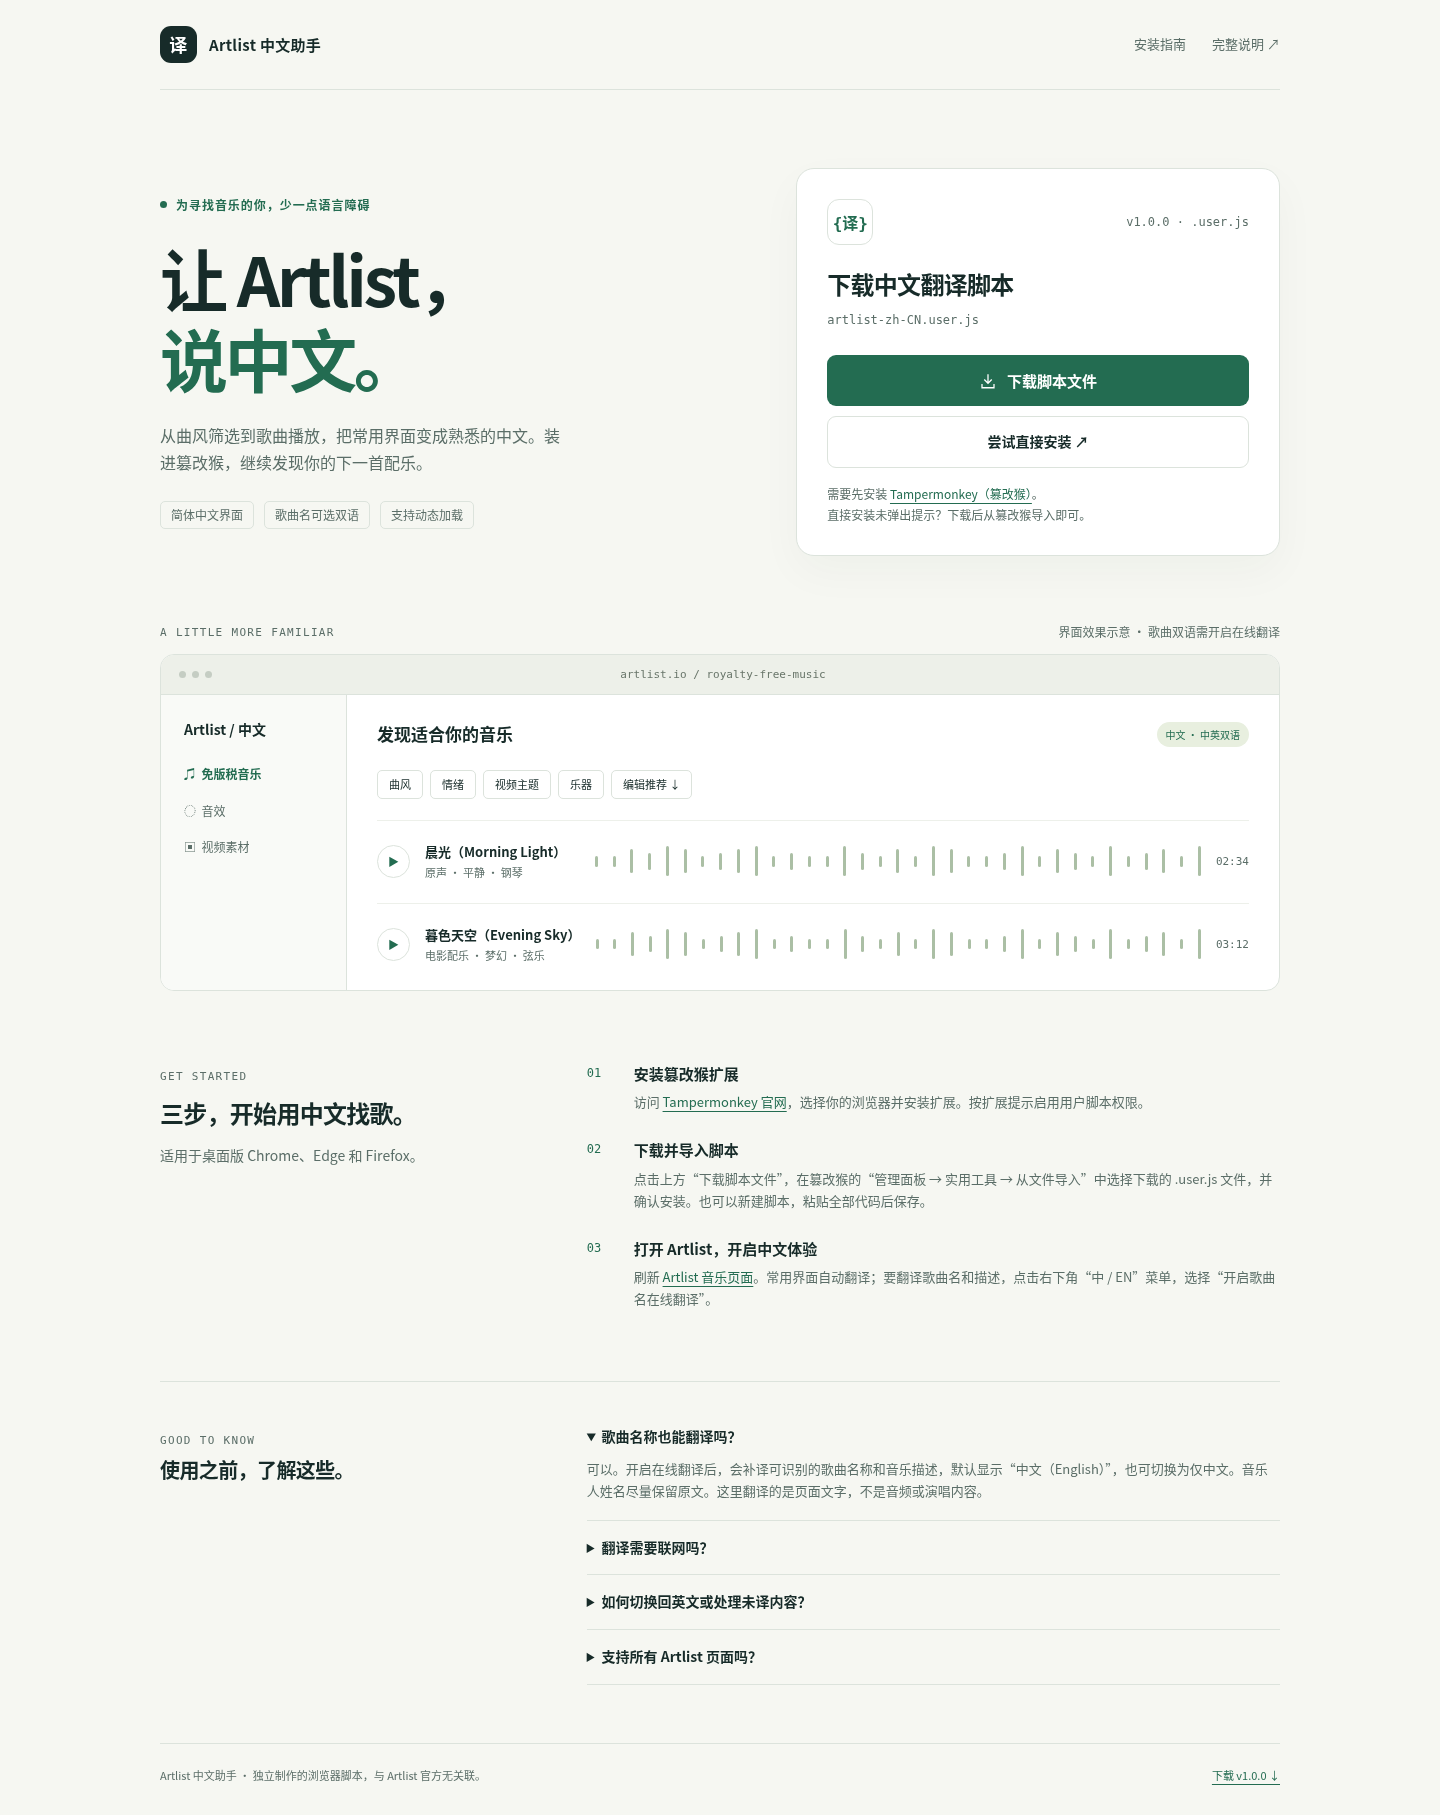
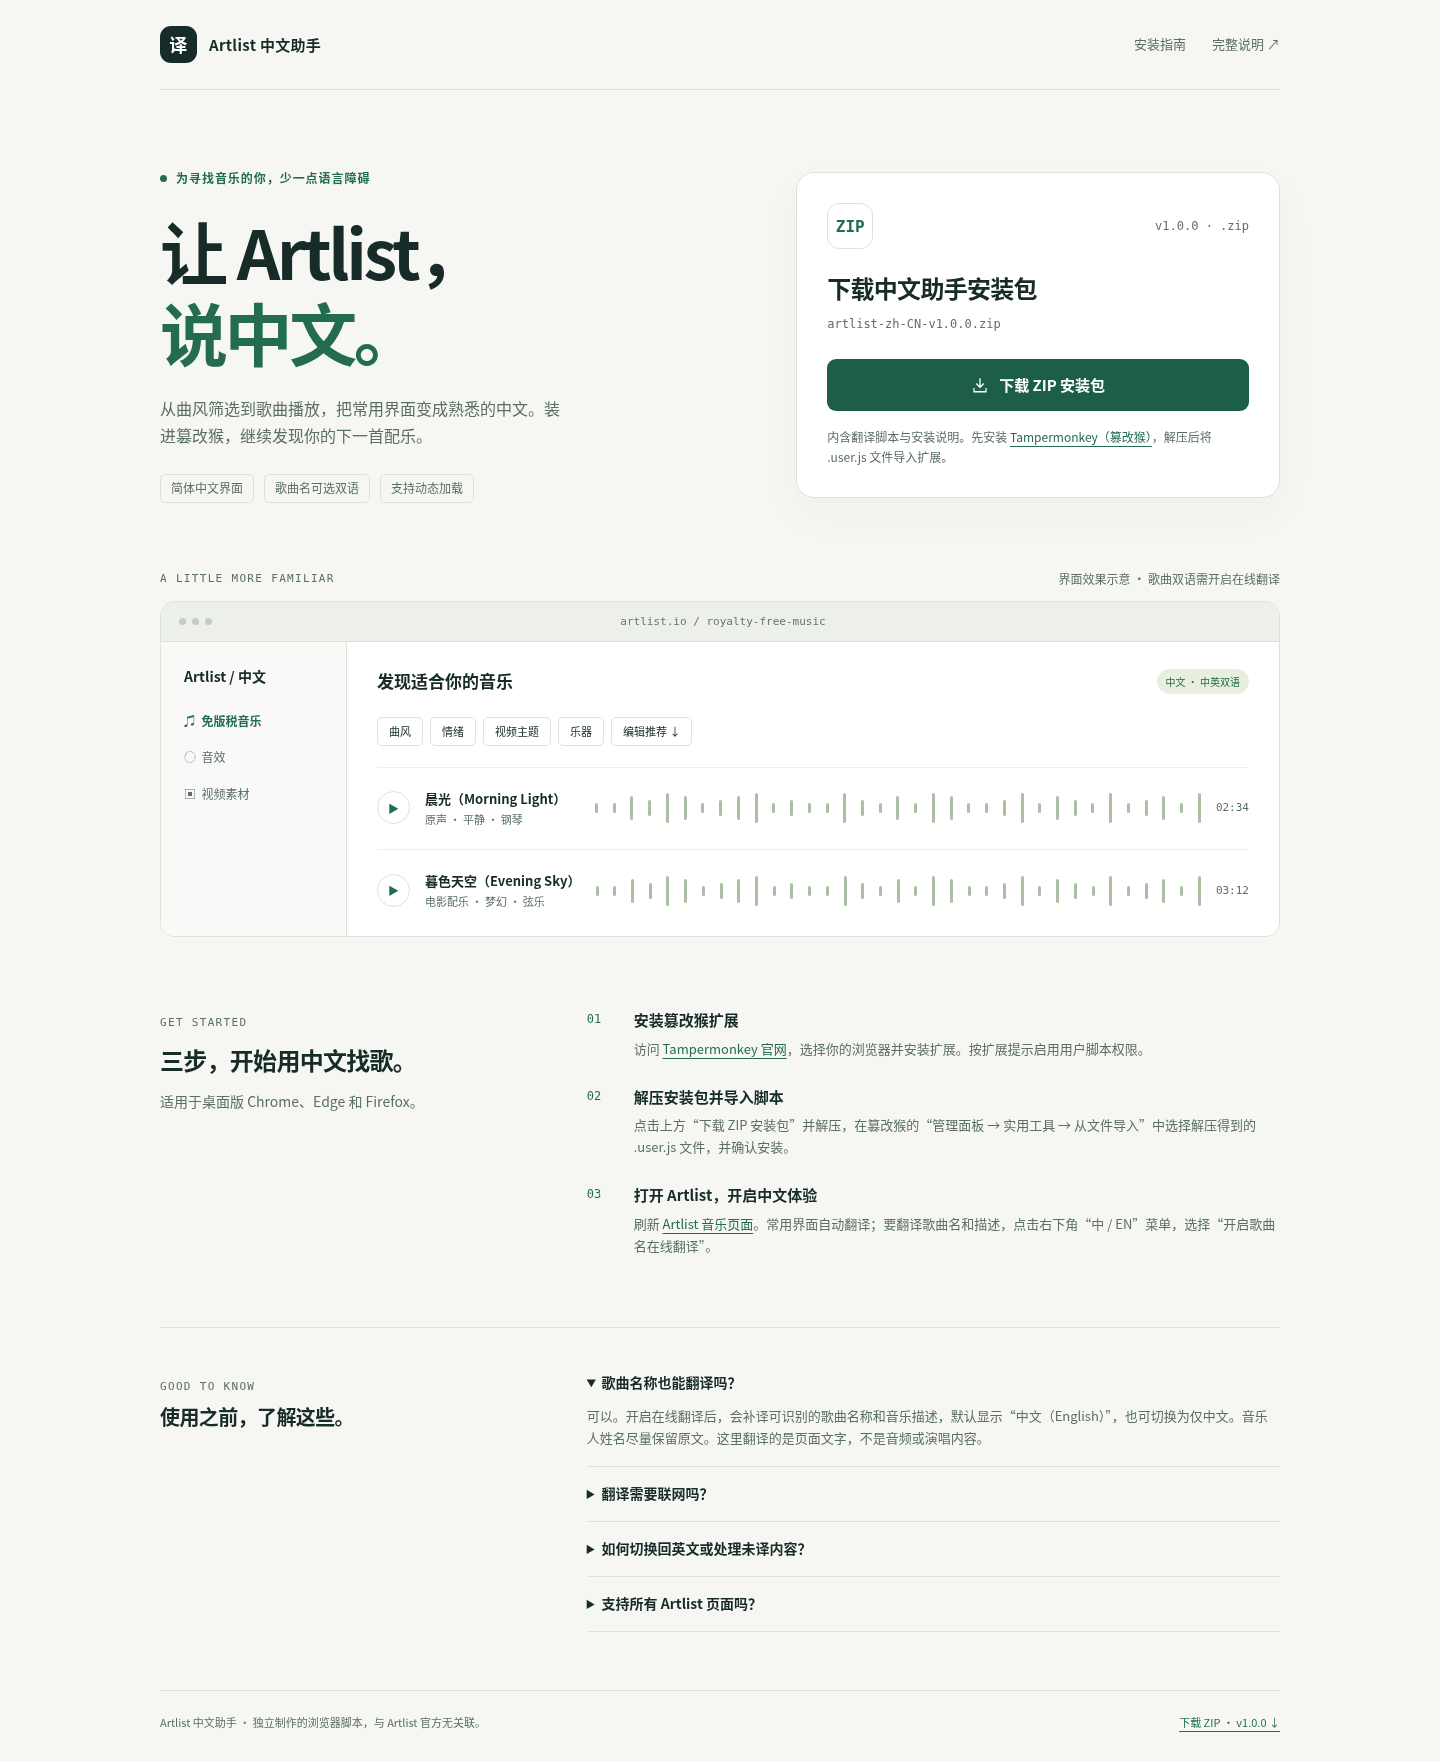
Offer ZIP installer as the only download option

diff --git a/index.html b/index.html
@@ -36,12 +36,11 @@
           <div class="tags" aria-label="脚本功能"><span class="tag">简体中文界面</span><span class="tag">歌曲名可选双语</span><span class="tag">支持动态加载</span></div>
         </div>
         <div class="download-card" id="download">
-          <div class="card-top"><span class="file-icon" aria-hidden="true">{译}</span><span class="version">v1.0.0 · .user.js</span></div>
-          <h2>下载中文翻译脚本</h2>
-          <p class="file-name">artlist-zh-CN.user.js</p>
-          <a class="button primary" href="./artlist-zh-CN.user.js" download="artlist-zh-CN.user.js"><svg width="18" height="18" viewBox="0 0 24 24" fill="none" stroke="currentColor" stroke-width="1.7" aria-hidden="true"><path d="M12 3v12m-5-5 5 5 5-5M4 16v5h16v-5"/></svg>下载脚本文件</a>
-          <a class="button secondary" href="./artlist-zh-CN.user.js" target="_blank" rel="noopener">尝试直接安装 ↗</a>
-          <p class="download-note">需要先安装 <a href="https://www.tampermonkey.net/" target="_blank" rel="noopener noreferrer">Tampermonkey（篡改猴）</a>。<br>直接安装未弹出提示？下载后从篡改猴导入即可。</p>
+          <div class="card-top"><span class="file-icon" aria-hidden="true">ZIP</span><span class="version">v1.0.0 · .zip</span></div>
+          <h2>下载中文助手安装包</h2>
+          <p class="file-name">artlist-zh-CN-v1.0.0.zip</p>
+          <a class="button primary" href="./downloads/artlist-zh-CN-v1.0.0.zip" download="artlist-zh-CN-v1.0.0.zip"><svg width="18" height="18" viewBox="0 0 24 24" fill="none" stroke="currentColor" stroke-width="1.7" aria-hidden="true"><path d="M12 3v12m-5-5 5 5 5-5M4 16v5h16v-5"/></svg>下载 ZIP 安装包</a>
+          <p class="download-note">内含翻译脚本与安装说明。先安装 <a href="https://www.tampermonkey.net/" target="_blank" rel="noopener noreferrer">Tampermonkey（篡改猴）</a>，解压后将 .user.js 文件导入扩展。</p>
         </div>
       </section>
 
@@ -65,7 +64,7 @@
         <div><span class="section-label">GET STARTED</span><h2 id="install-title">三步，开始用中文找歌。</h2><p class="guide-intro">适用于桌面版 Chrome、Edge 和 Firefox。</p></div>
         <ol class="steps">
           <li><div><strong>安装篡改猴扩展</strong><p>访问 <a href="https://www.tampermonkey.net/" target="_blank" rel="noopener noreferrer">Tampermonkey 官网</a>，选择你的浏览器并安装扩展。按扩展提示启用用户脚本权限。</p></div></li>
-          <li><div><strong>下载并导入脚本</strong><p>点击上方“下载脚本文件”，在篡改猴的“管理面板 → 实用工具 → 从文件导入”中选择下载的 .user.js 文件，并确认安装。也可以新建脚本，粘贴全部代码后保存。</p></div></li>
+          <li><div><strong>解压安装包并导入脚本</strong><p>点击上方“下载 ZIP 安装包”并解压，在篡改猴的“管理面板 → 实用工具 → 从文件导入”中选择解压得到的 .user.js 文件，并确认安装。</p></div></li>
           <li><div><strong>打开 Artlist，开启中文体验</strong><p>刷新 <a href="https://artlist.io/royalty-free-music" target="_blank" rel="noopener noreferrer">Artlist 音乐页面</a>。常用界面自动翻译；要翻译歌曲名和描述，点击右下角“中 / EN”菜单，选择“开启歌曲名在线翻译”。</p></div></li>
         </ol>
       </section>
@@ -75,12 +74,12 @@
         <div>
           <details open><summary>歌曲名称也能翻译吗？</summary><p>可以。开启在线翻译后，会补译可识别的歌曲名称和音乐描述，默认显示“中文（English）”，也可切换为仅中文。音乐人姓名尽量保留原文。这里翻译的是页面文字，不是音频或演唱内容。</p></details>
           <details><summary>翻译需要联网吗？</summary><p>常用界面使用内置词库，无需连接翻译服务。歌曲名和描述的在线补译会将符合条件的页面文字发送至 Google，需要能访问 <code>translate.googleapis.com</code>。在线翻译默认关闭，接口连接失败时本地词库仍可使用。</p></details>
-          <details><summary>如何切换回英文或处理未译内容？</summary><p>点击页面右下角的“中 / EN”菜单，选择“显示英文原文”。网络恢复后，可点击“重新扫描 / 重试未译内容”。下载按钮如果打开了代码页面，也可以将完整代码复制到篡改猴的新建脚本中保存。</p></details>
+          <details><summary>如何切换回英文或处理未译内容？</summary><p>点击页面右下角的“中 / EN”菜单，选择“显示英文原文”。网络恢复后，可点击“重新扫描 / 重试未译内容”。</p></details>
           <details><summary>支持所有 Artlist 页面吗？</summary><p>脚本面向常用界面和音乐页面，已经通过本地模拟浏览器测试，尚未在真实登录后的 Artlist 页面完整验证。网站结构变化可能影响识别，无法保证每处文字都覆盖。授权、价格和条款请以 Artlist 原文为准。<a href="./README.md">查看完整说明</a>。</p></details>
         </div>
       </section>
     </main>
-    <footer><p>Artlist 中文助手 · 独立制作的浏览器脚本，与 Artlist 官方无关联。</p><a href="./artlist-zh-CN.user.js" download="artlist-zh-CN.user.js">下载 v1.0.0 ↓</a></footer>
+    <footer><p>Artlist 中文助手 · 独立制作的浏览器脚本，与 Artlist 官方无关联。</p><a href="./downloads/artlist-zh-CN-v1.0.0.zip" download="artlist-zh-CN-v1.0.0.zip">下载 ZIP · v1.0.0 ↓</a></footer>
   </div>
 </body>
 </html>

diff --git a/README.md b/README.md
@@ -1,18 +1,14 @@
 # Artlist 简体中文翻译脚本
 
-主文件：`artlist-zh-CN.user.js`，用于桌面浏览器的 Tampermonkey（篡改猴）。
+用于桌面浏览器的 Tampermonkey（篡改猴），支持常用界面翻译及可选歌曲名双语显示。
 
 ## 下载与安装
 
-### [⬇ 点击下载 Artlist 中文翻译脚本 v1.0.0](https://github.com/sudazz777/WangZhanFanYi/raw/refs/heads/main/artlist-zh-CN.user.js)
+### [⬇ 下载 Artlist 中文助手 ZIP 安装包 v1.0.0](https://github.com/sudazz777/WangZhanFanYi/raw/refs/heads/main/downloads/artlist-zh-CN-v1.0.0.zip)
 
-| 下载内容 | 入口 |
-| --- | --- |
-| 篡改猴脚本（推荐） | [下载 artlist-zh-CN.user.js](https://github.com/sudazz777/WangZhanFanYi/raw/refs/heads/main/artlist-zh-CN.user.js) |
-| 完整项目，包含 HTML 下载页面 | [下载项目 ZIP](https://github.com/sudazz777/WangZhanFanYi/archive/refs/heads/main.zip) |
-| 脚本源码 | [查看代码](./artlist-zh-CN.user.js) |
+压缩包内包含翻译脚本 `artlist-zh-CN.user.js` 和 `安装说明.txt`。
 
-**安装：** 先安装 [Tampermonkey（篡改猴）](https://www.tampermonkey.net/)，再点击上方脚本下载链接。如未弹出安装窗口，请保存文件，在篡改猴 **管理面板 → 实用工具 → 从文件导入** 中选择该文件。
+**安装：** 先安装 [Tampermonkey（篡改猴）](https://www.tampermonkey.net/)，下载并解压 ZIP 安装包，在篡改猴 **管理面板 → 实用工具 → 从文件导入** 中选择解压得到的 `.user.js` 文件。
 
 安装后刷新 [Artlist 音乐页面](https://artlist.io/royalty-free-music)。要翻译歌曲名和描述，在右下角 **中 / EN → 开启歌曲名在线翻译** 中开启。此功能需要能访问 Google 翻译；常用界面使用本地词库。
 
@@ -23,20 +19,14 @@
 
 </details>
 
-## 下载页面
-
-仓库根目录的 [index.html](./index.html) 是中文下载页面，提供脚本下载、直接安装入口、界面效果示意和安装指南。**GitHub 中点击 HTML 文件会显示源码；在仓库首页直接使用上方下载入口即可。** 若要打开独立网页，请下载完整项目并解压，用浏览器打开 `index.html`，或将项目放到静态服务器上；页面与 `.user.js` 文件需放在同一目录。
-
-如需通过 GitHub Pages 访问网页，在仓库 **Settings → Pages → Build and deployment** 中选择 **Deploy from a branch**，再选择包含本页面的分支及 **/ (root)**，保存即可。私有仓库能否启用 Pages 取决于 GitHub 套餐；仓库下载入口不依赖 Pages。页面使用相对链接，支持仓库子路径部署；当前尚未启用线上网页托管。
-
 ## 安装
 
 1. 在 Chrome、Edge 或 Firefox 中安装并启用 Tampermonkey。
-2. 点击扩展图标 → **添加新脚本**，删除编辑器原有内容。
-3. 用文本编辑器打开 `artlist-zh-CN.user.js`，复制全部代码粘贴进去，按 `Ctrl+S` 保存。
+2. 下载上方 ZIP 安装包并解压。
+3. 打开篡改猴 **管理面板 → 实用工具 → 从文件导入**，选择解压得到的 `artlist-zh-CN.user.js` 文件，并确认安装。
 4. 打开或刷新 <https://artlist.io/royalty-free-music>。
 
-也可在 Tampermonkey 的 **管理面板 → 实用工具 → 从文件导入** 中选择这个 `.user.js` 文件。Chrome / Edge 如提示用户脚本未获授权，请按 Tampermonkey 提示启用“允许用户脚本”（旧版可能要求扩展程序开发者模式）。
+Chrome / Edge 如提示用户脚本未获授权，请按 Tampermonkey 提示启用“允许用户脚本”（旧版可能要求扩展程序开发者模式）。
 
 ## 使用
 
@@ -55,14 +45,3 @@
 本脚本只修改页面显示文本和占位符等展示属性，不更改歌曲链接、搜索条件、播放和下载请求。翻译搜索框提示不代表中文搜索词会自动转换为英文。授权、价格和条款应以 Artlist 原文为准，歌曲名属于机器翻译参考。
 
 已参考公开音乐首页文字，并在本地模拟页面验证动态内容、播放器更新、原文恢复、歌曲双语、缓存、输入内容保护、异步响应及失败重试。**当前环境无法连接真实 Artlist 做浏览器实测，未验证登录后的所有布局。** 歌曲识别同时使用链接路径、语义属性和常见类名；网站结构变化可能需要更新选择器，不能保证整站每处文字都已覆盖。
-
-## 开发验证
-
-安装 Node.js、Playwright 和 Chromium 后，在此目录执行：
-
-```sh
-node --check artlist-zh-CN.user.js
-node test/browser.test.cjs
-```
-
-测试默认使用 `/usr/bin/chromium`。在线请求在测试中使用模拟响应，不依赖真实翻译服务。
